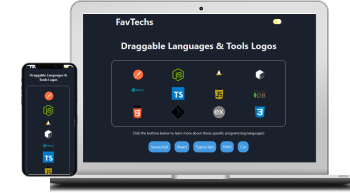
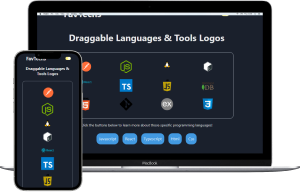
Project images update

diff --git a/src/components/ProjectComponentOdd.tsx b/src/components/ProjectComponentOdd.tsx
@@ -11,7 +11,7 @@ const ProjectComponentOdd = ({ image, description, link }: Props) => {
     <>
       <Box display="flex" padding="2em" justifyContent="space-between">
         <Box marginX="40px">
-          <Heading fontSize="36px" textAlign="justify">
+          <Heading mt="0" fontSize="36px" textAlign="justify">
             {description}
           </Heading>
           <ButtonAnimation link={link} />

diff --git a/src/models/projectsData.ts b/src/models/projectsData.ts
@@ -1,7 +1,7 @@
 import todoPng from "../assets/todo-png.png"
 import weatherPng from "../assets/weather-png.png"
 import dashboardPng from "../assets/dashboard-png.png"
-import gamesPng from "../assets/game-png.png"
+import gamesPng from "../assets/games-png.png"
 import langPng from "../assets/lang-png.png"
 
 export const projectsData = [

diff --git a/src/components/ProjectComponent.tsx b/src/components/ProjectComponent.tsx
@@ -32,6 +32,7 @@ const ProjectComponent = ({ image, description, link }: Props) => {
           justifyContent={isHigherThan480 ? "unset" : "center"}
         >
           <Heading
+            mt="0"
             fontSize={isHigherThan480 ? "36px" : "28px"}
             textAlign="justify"
           >
